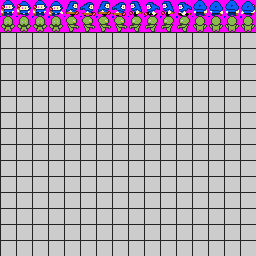
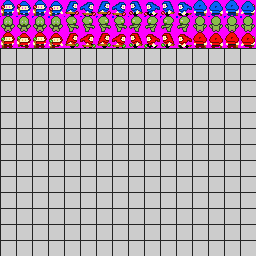
Changes to how enemy sprites look

Changed region(s): [[0.0, 0.125, 1.0, 0.1875]]

diff --git a/src/game/Game.java b/src/game/Game.java
@@ -1,5 +1,7 @@
 package game;
 
+import game.ai.AiManager;
+import game.entities.mob.Enemy;
 import game.entities.mob.Player;
 import game.graphics.*;
 
@@ -11,13 +13,17 @@ import java.awt.*;
 import java.awt.image.BufferStrategy;
 import java.awt.image.BufferedImage;
 import java.awt.image.DataBufferInt;
+import java.util.ArrayList;
+import java.util.Random;
 
 public class Game extends Canvas implements Runnable{
     private static final long serialVersionUID = 1L;
 
-    public static final int WIDTH = 300;
-    public static final int HEIGHT = 300;
-    public static final int SCALE = 3;
+    public static Dimension screensize = Toolkit.getDefaultToolkit().getScreenSize();
+
+    public static final int WIDTH = 700/2;
+    public static final int HEIGHT =  700/2;
+    public static final int SCALE = 2;
     public static final String NAME = "GAME";
 
     private JFrame frame;
@@ -32,6 +38,8 @@ public class Game extends Canvas implements Runnable{
     public Level level;
     private Screen screen;
     private Player player;
+    private AiManager ai;
+    private ArrayList<Enemy> enemies = new ArrayList<>();
 
     public static void main(String[] args) {
         new Game().start();
@@ -50,7 +58,7 @@ public class Game extends Canvas implements Runnable{
         frame.add(this, BorderLayout.CENTER);
         frame.pack();
 
-        frame.setResizable(false);
+        frame.setResizable(true);
         frame.setLocationRelativeTo(null);
         frame.setVisible(true);
     }
@@ -58,10 +66,18 @@ public class Game extends Canvas implements Runnable{
     public void init(){
         screen = new Screen(WIDTH, HEIGHT);
         input = new InputHandler(this);
-        level = new SpawnLevel("/levels/TransitionTestMap.png");
+        level = new SpawnLevel("/levels/TestingArena.png");
         player = new Player(150, 150, level, screen,input);
+        Random rand = new Random();
+        rand.setSeed(System.currentTimeMillis());
+        for(int i = 0; i < 20; i++) {
+            enemies.add(new Enemy((rand.nextInt() % 200) + 200, (rand.nextInt() % 200) + 200, level, screen, "name", 1, null));
+        }
+        for(Enemy e: enemies) {
+            level.add(e);
+        }
+        ai = new AiManager(player, enemies);
         level.add(player);
-
     }
 
 
@@ -103,6 +119,7 @@ public class Game extends Canvas implements Runnable{
             try{
                 Thread.sleep(2);
             }
+
             catch (InterruptedException e ) {
                 e.printStackTrace();
             }
@@ -121,10 +138,10 @@ public class Game extends Canvas implements Runnable{
         }
     }
 
-    public void tick() {
+    public void tick(){
         tickCount++;
         level.tick();
-
+        ai.tick();
     }
 
 

diff --git a/src/game/graphics/Screen.java b/src/game/graphics/Screen.java
@@ -36,7 +36,7 @@ public class Screen {
             int ya = y + yp;
             for(int x = 0; x < sprite.SIZE; x++) {
                 int xa = x + xp;
-                if (xa < -sprite.SIZE || xa >= width || ya < 0 || ya >= width) break;
+                if (xa < -sprite.SIZE || xa >= width || ya < 0 || ya >= height) break;
                 if (xa < 0) xa = 0;
                 int col = sprite.pixels[x+y*sprite.SIZE];
                 if (col != 0xffff00ff){
@@ -53,7 +53,7 @@ public class Screen {
             int ya = y + yp;
             for(int x = 0; x < tile.currentSprite.SIZE; x++) {
                 int xa = x + xp;
-                if (xa < -tile.currentSprite.SIZE || xa >= width || ya < 0 || ya >= width) break;
+                if (xa < -tile.currentSprite.SIZE || xa >= width || ya < 0 || ya >= height) break;
                 if (xa < 0) xa = 0;
                 pixels[xa+ya*width] = tile.currentSprite.pixels[x+ y * tile.currentSprite.SIZE];
             }
@@ -68,7 +68,7 @@ public class Screen {
             int ya = y + yp;
             for(int x = 0; x < sprite.SIZE; x++) {
                 int xa = x + xp;
-                if (xa < -sprite.SIZE || xa >= width || ya < 0 || ya >= width) break;
+                if (xa < -sprite.SIZE || xa >= width || ya < 0 || ya >= height) break;
                 if (xa < 0) xa = 0;
                 int col = sprite.pixels[x+y*sprite.SIZE];
                 if (col != 0xffff00ff){
@@ -88,7 +88,7 @@ public class Screen {
             int ya = y + yp;
             for(int x = 0; x < 16; x++) {
                 int xa = x + xp;
-                if (xa < -16 || xa >= width || ya < 0 || ya >= width) break;
+                if (xa < -16 || xa >= width || ya < 0 || ya >= height) break;
                 if (xa < 0) xa = 0;
                 int col = sprite[animIndex].pixels[x+y*Tile.TILE_SIZE*2];
                 if (col != 0xffff00ff){
@@ -127,7 +127,7 @@ public class Screen {
             int ya = y + yp;
             for(int x = 0; x < pixelsLong; x++) {
                 int xa = x + xp;
-                if (xa < -Tile.TILE_SIZE*2 || xa >= width || ya < 0 || ya >= width) break;
+                if (xa < -Tile.TILE_SIZE*2 || xa >= width || ya < 0 || ya >= height) break;
                 if (xa < 0) xa = 0;
                 int col = sprite.pixels[x + y * Tile.TILE_SIZE*2];
                 if (col != 0xffff00ff){

diff --git a/src/game/ai/AiManager.java b/src/game/ai/AiManager.java
@@ -1,0 +1,58 @@
+package game.ai;
+
+import game.entities.mob.Enemy;
+import game.entities.mob.Player;
+
+import java.util.ArrayList;
+import java.util.Random;
+
+public class AiManager {
+
+    private Player friendPlayer;
+    private ArrayList<Enemy> characters;
+    private float pos = 0;
+
+    public AiManager(Player friendPlayer, ArrayList<Enemy> characters){
+        this.friendPlayer = friendPlayer;
+        this.characters = characters;
+    }
+
+    public void tick(){
+        for(int i = 0; i < characters.size(); i++) {
+            Random rand = new Random();
+            rand.setSeed(System.nanoTime());
+            int randNum = Math.abs(rand.nextInt()%100);
+
+            int r = 70;
+
+            int theta = 360 * i / characters.size();
+            theta += (int)pos;
+            pos += 0.02;
+
+            float x = (float) (r * Math.cos(Math.toRadians(theta)) + friendPlayer.x);
+            float y = (float) (r * Math.sin(Math.toRadians(theta)) + friendPlayer.y);
+
+            if(randNum < 80) {
+                if((int)x == (int) characters.get(i).x){
+
+                }else if (x > characters.get(i).x) {
+                    characters.get(i).x++;
+                } else if (x < characters.get(i).x) {
+                    characters.get(i).x--;
+                }
+            }
+
+            randNum = Math.abs(rand.nextInt()%100);
+
+            if(randNum < 80) {
+                if((int)y == (int) characters.get(i).y){
+
+                }else if (y > characters.get(i).y) {
+                    characters.get(i).y++;
+                } else if (y < characters.get(i).y) {
+                    characters.get(i).y--;
+                }
+            }
+        }
+    }
+}

diff --git a/src/game/graphics/sprite/mob_sprites/PlayerSprite.java b/src/game/graphics/sprite/mob_sprites/PlayerSprite.java
@@ -10,7 +10,9 @@ import game.levels.tile.Tile;
  */
 public class PlayerSprite extends AnimatedSprite {
 
-    public static Sprite[][] playerSprites = loadPlayer();
+    public static Sprite[][] playerSprites = loadPlayer(0);
+    public static Sprite[][] zombieSprites = loadPlayer(1);
+    public static Sprite[][] enemySprites = loadPlayer(2);
     public static Sprite[] playerAttackSprites = loadAnimatedSprite(Tile.TILE_SIZE*2, new int[]{0,1,2}, new int[]{0,0,0}, SpriteSheet.characterAnimations16);
 
     public static Sprite[] swimming = loadAnimatedSprite(16, 0, 0, 3, SpriteSheet.statusEffects_16);
@@ -19,15 +21,12 @@ public class PlayerSprite extends AnimatedSprite {
         super(16, x, y, SpriteSheet.characterMovement_16);
     }
 
-    public static Sprite[][] loadPlayer(){
-        //player forward    = currentSprite[3][0..3]
-        //player right      = currentSprite[2][0..3]
-        //player left       = currentSprite[1][0..3]
-        //player backward   = currentSprite[0][0..3]
+    public static Sprite[][] loadPlayer(int spriteNum){
+        //spriteNum is the number that the sprite is on the y axis of the sprite page
 
         Sprite[][] sprites = new Sprite[4][4];
         for (int anim = 0; anim < 4; anim++) {
-            sprites[anim] = loadAnimatedSprite(Tile.TILE_SIZE*2, anim * 4, 0, 4, SpriteSheet.characterMovement_16);
+            sprites[anim] = loadAnimatedSprite(Tile.TILE_SIZE*2, anim * 4, spriteNum, 4, SpriteSheet.characterMovement_16);
         }
         return sprites;
     }

diff --git a/src/game/entities/mob/Enemy.java b/src/game/entities/mob/Enemy.java
@@ -1,0 +1,28 @@
+package game.entities.mob;
+
+import game.animators.Animator;
+import game.animators.mob_animators.PlayerAnimator;
+import game.graphics.Screen;
+import game.graphics.sprite.mob_sprites.PlayerSprite;
+import game.levels.Level;
+
+public class Enemy extends Mob{
+
+    private PlayerAnimator playerAnimator;
+
+    public Enemy(int x, int y, Level level, Screen screen, String name, int speed, Animator animator){
+        super(level, screen, name, speed);
+        this.x  = x;
+        this.y = y;
+        playerAnimator = new PlayerAnimator(screen, 4, PlayerSprite.zombieSprites, this);
+    }
+
+    @Override
+    public void tick() {
+    }
+
+    @Override
+    public void render(Screen screen) {
+        playerAnimator.renderSprite((int)x,(int)y);
+    }
+}

diff --git a/src/game/entities/mob/Player.java b/src/game/entities/mob/Player.java
@@ -28,17 +28,9 @@ public class Player extends Mob {
     private TeleportManager teleportManager;
     private PlayerAnimator playerAnimator;
 
-    public Player(Level level, Screen screen, InputHandler input){
-
-        super(level, screen,"player", 3);
-        this.input = input;
-        fireballManager = new FireballManager(screen,  input, level);
-        teleportManager = new TeleportManager(screen, this, input);
-        playerAnimator = new PlayerAnimator(screen, 4, PlayerSprite.playerSprites, this);
-    }
 
     public Player(int x, int y, Level level, Screen screen, InputHandler input){
-        super(level, screen, "Player", 1);
+        super(level, screen, "Player", 2);
         this.x = x;
         this.y = y;
         this.input = input;
